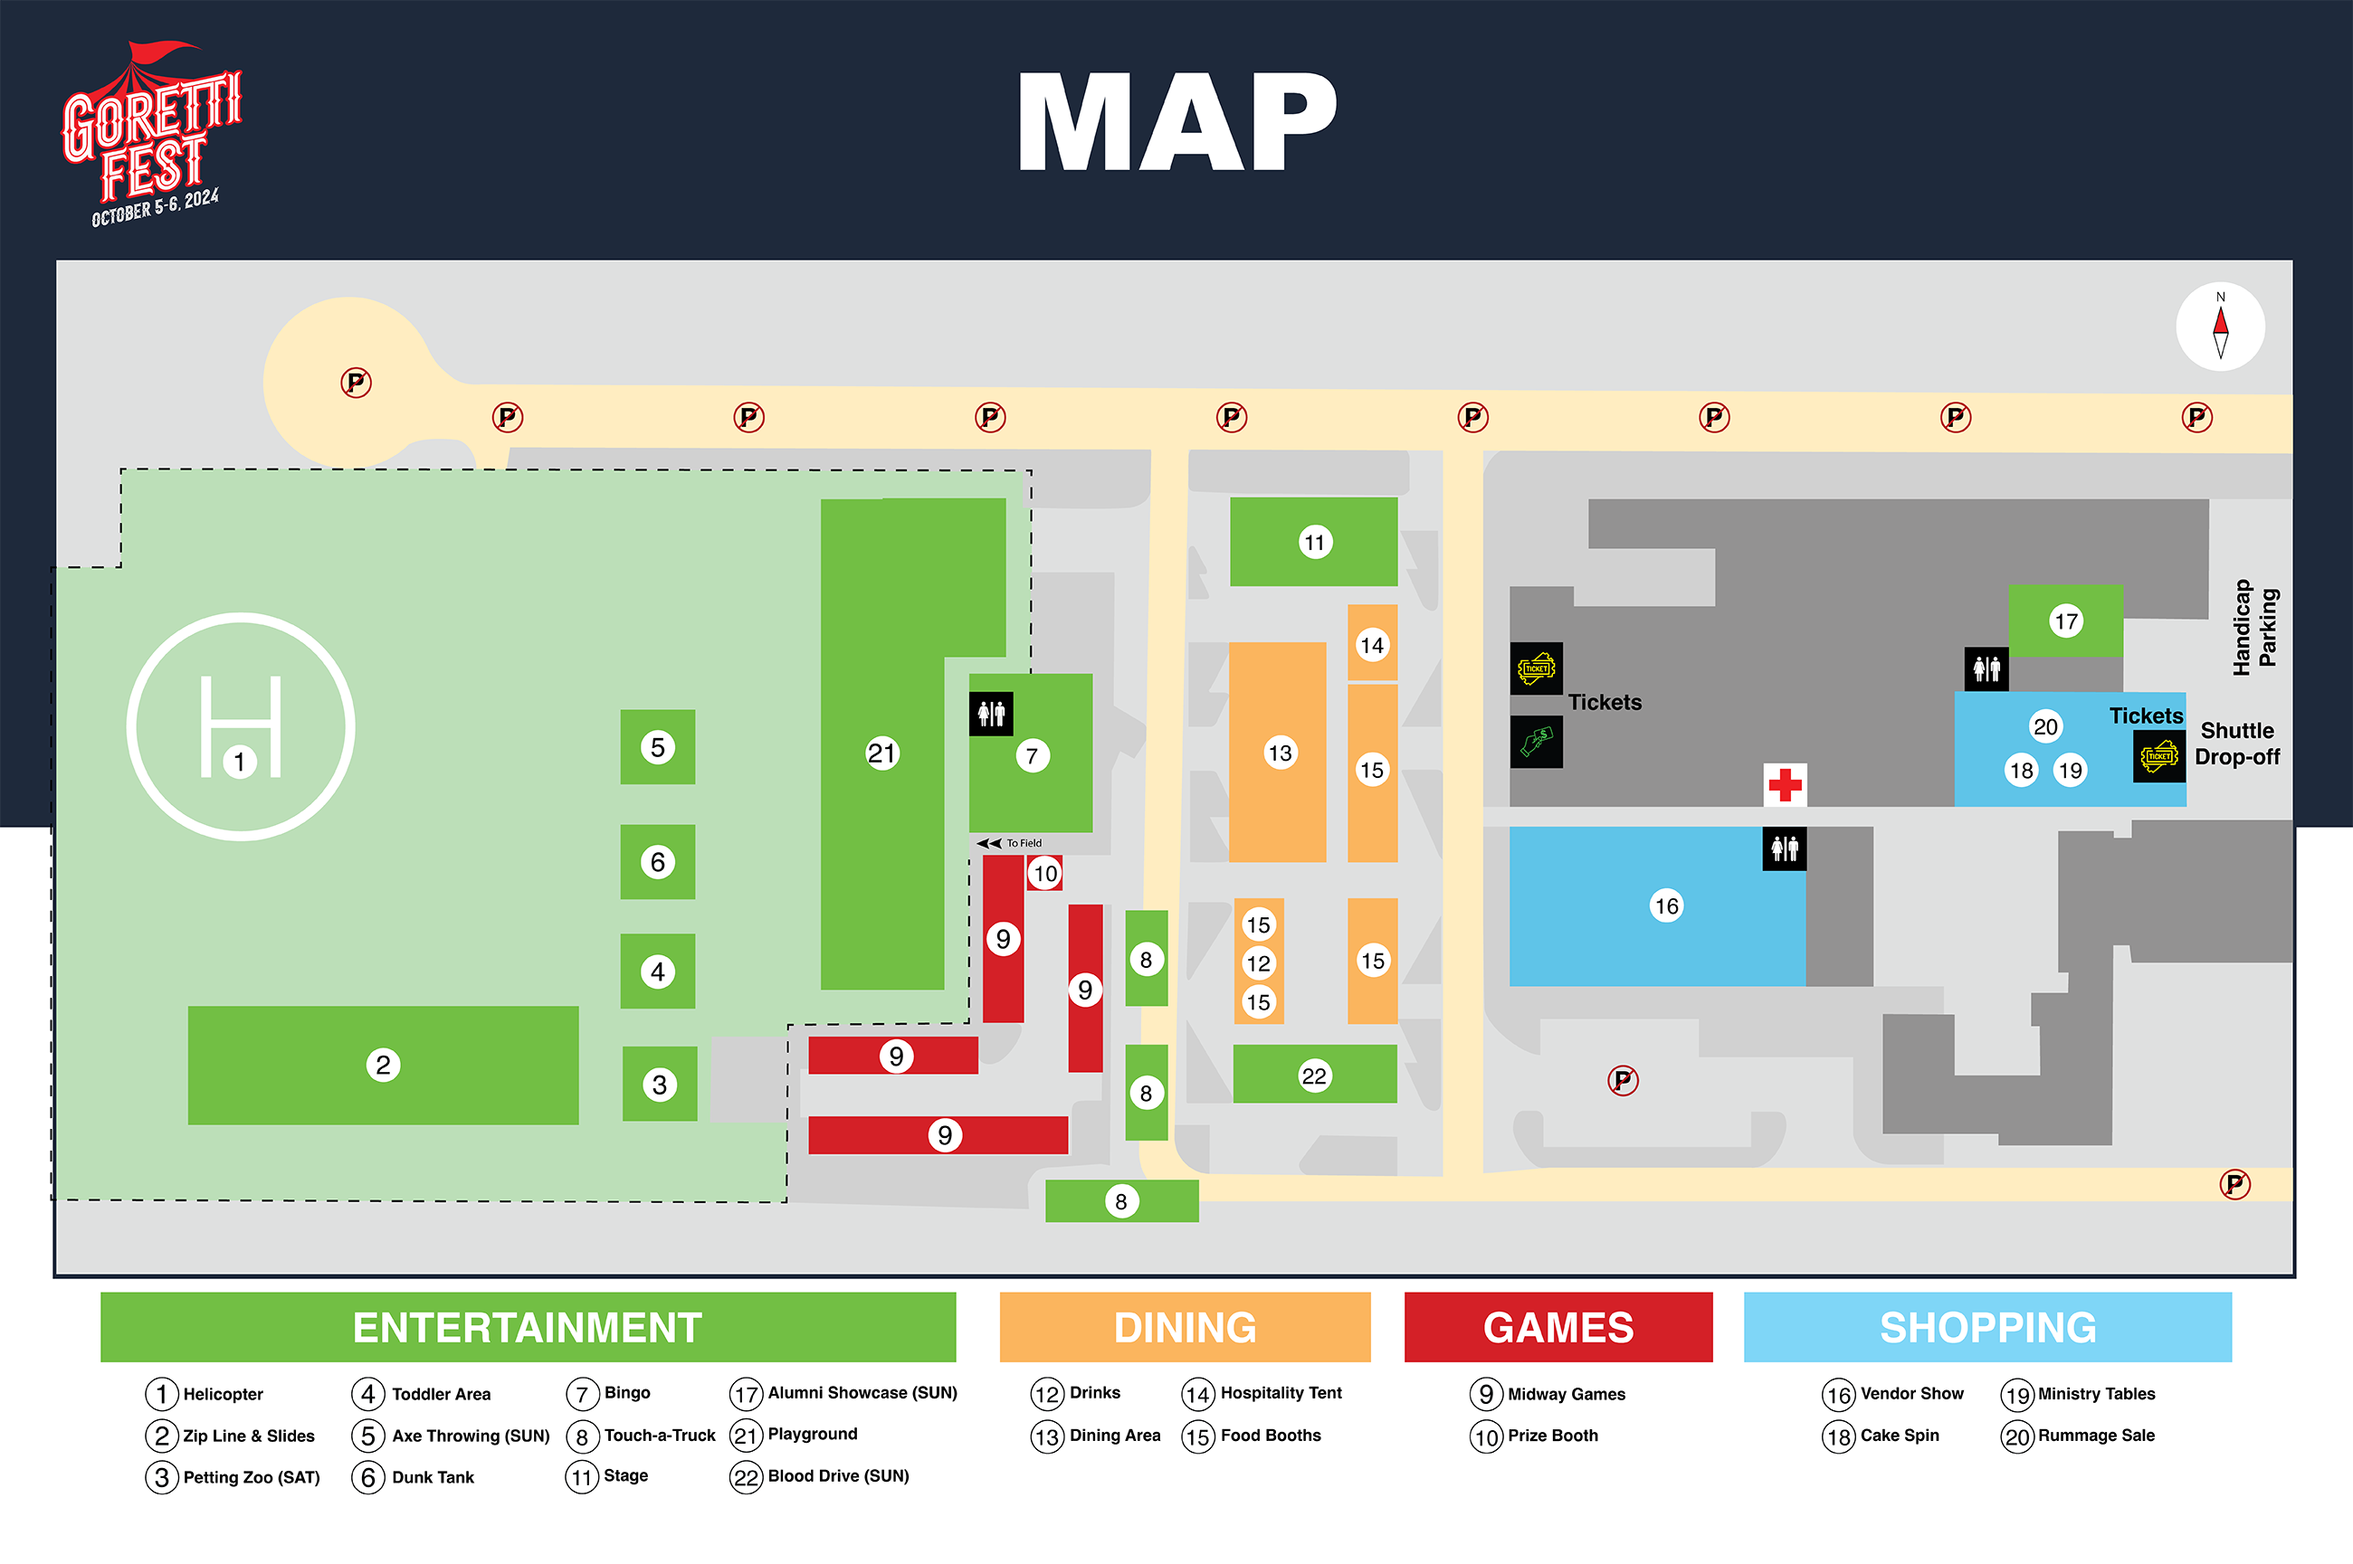
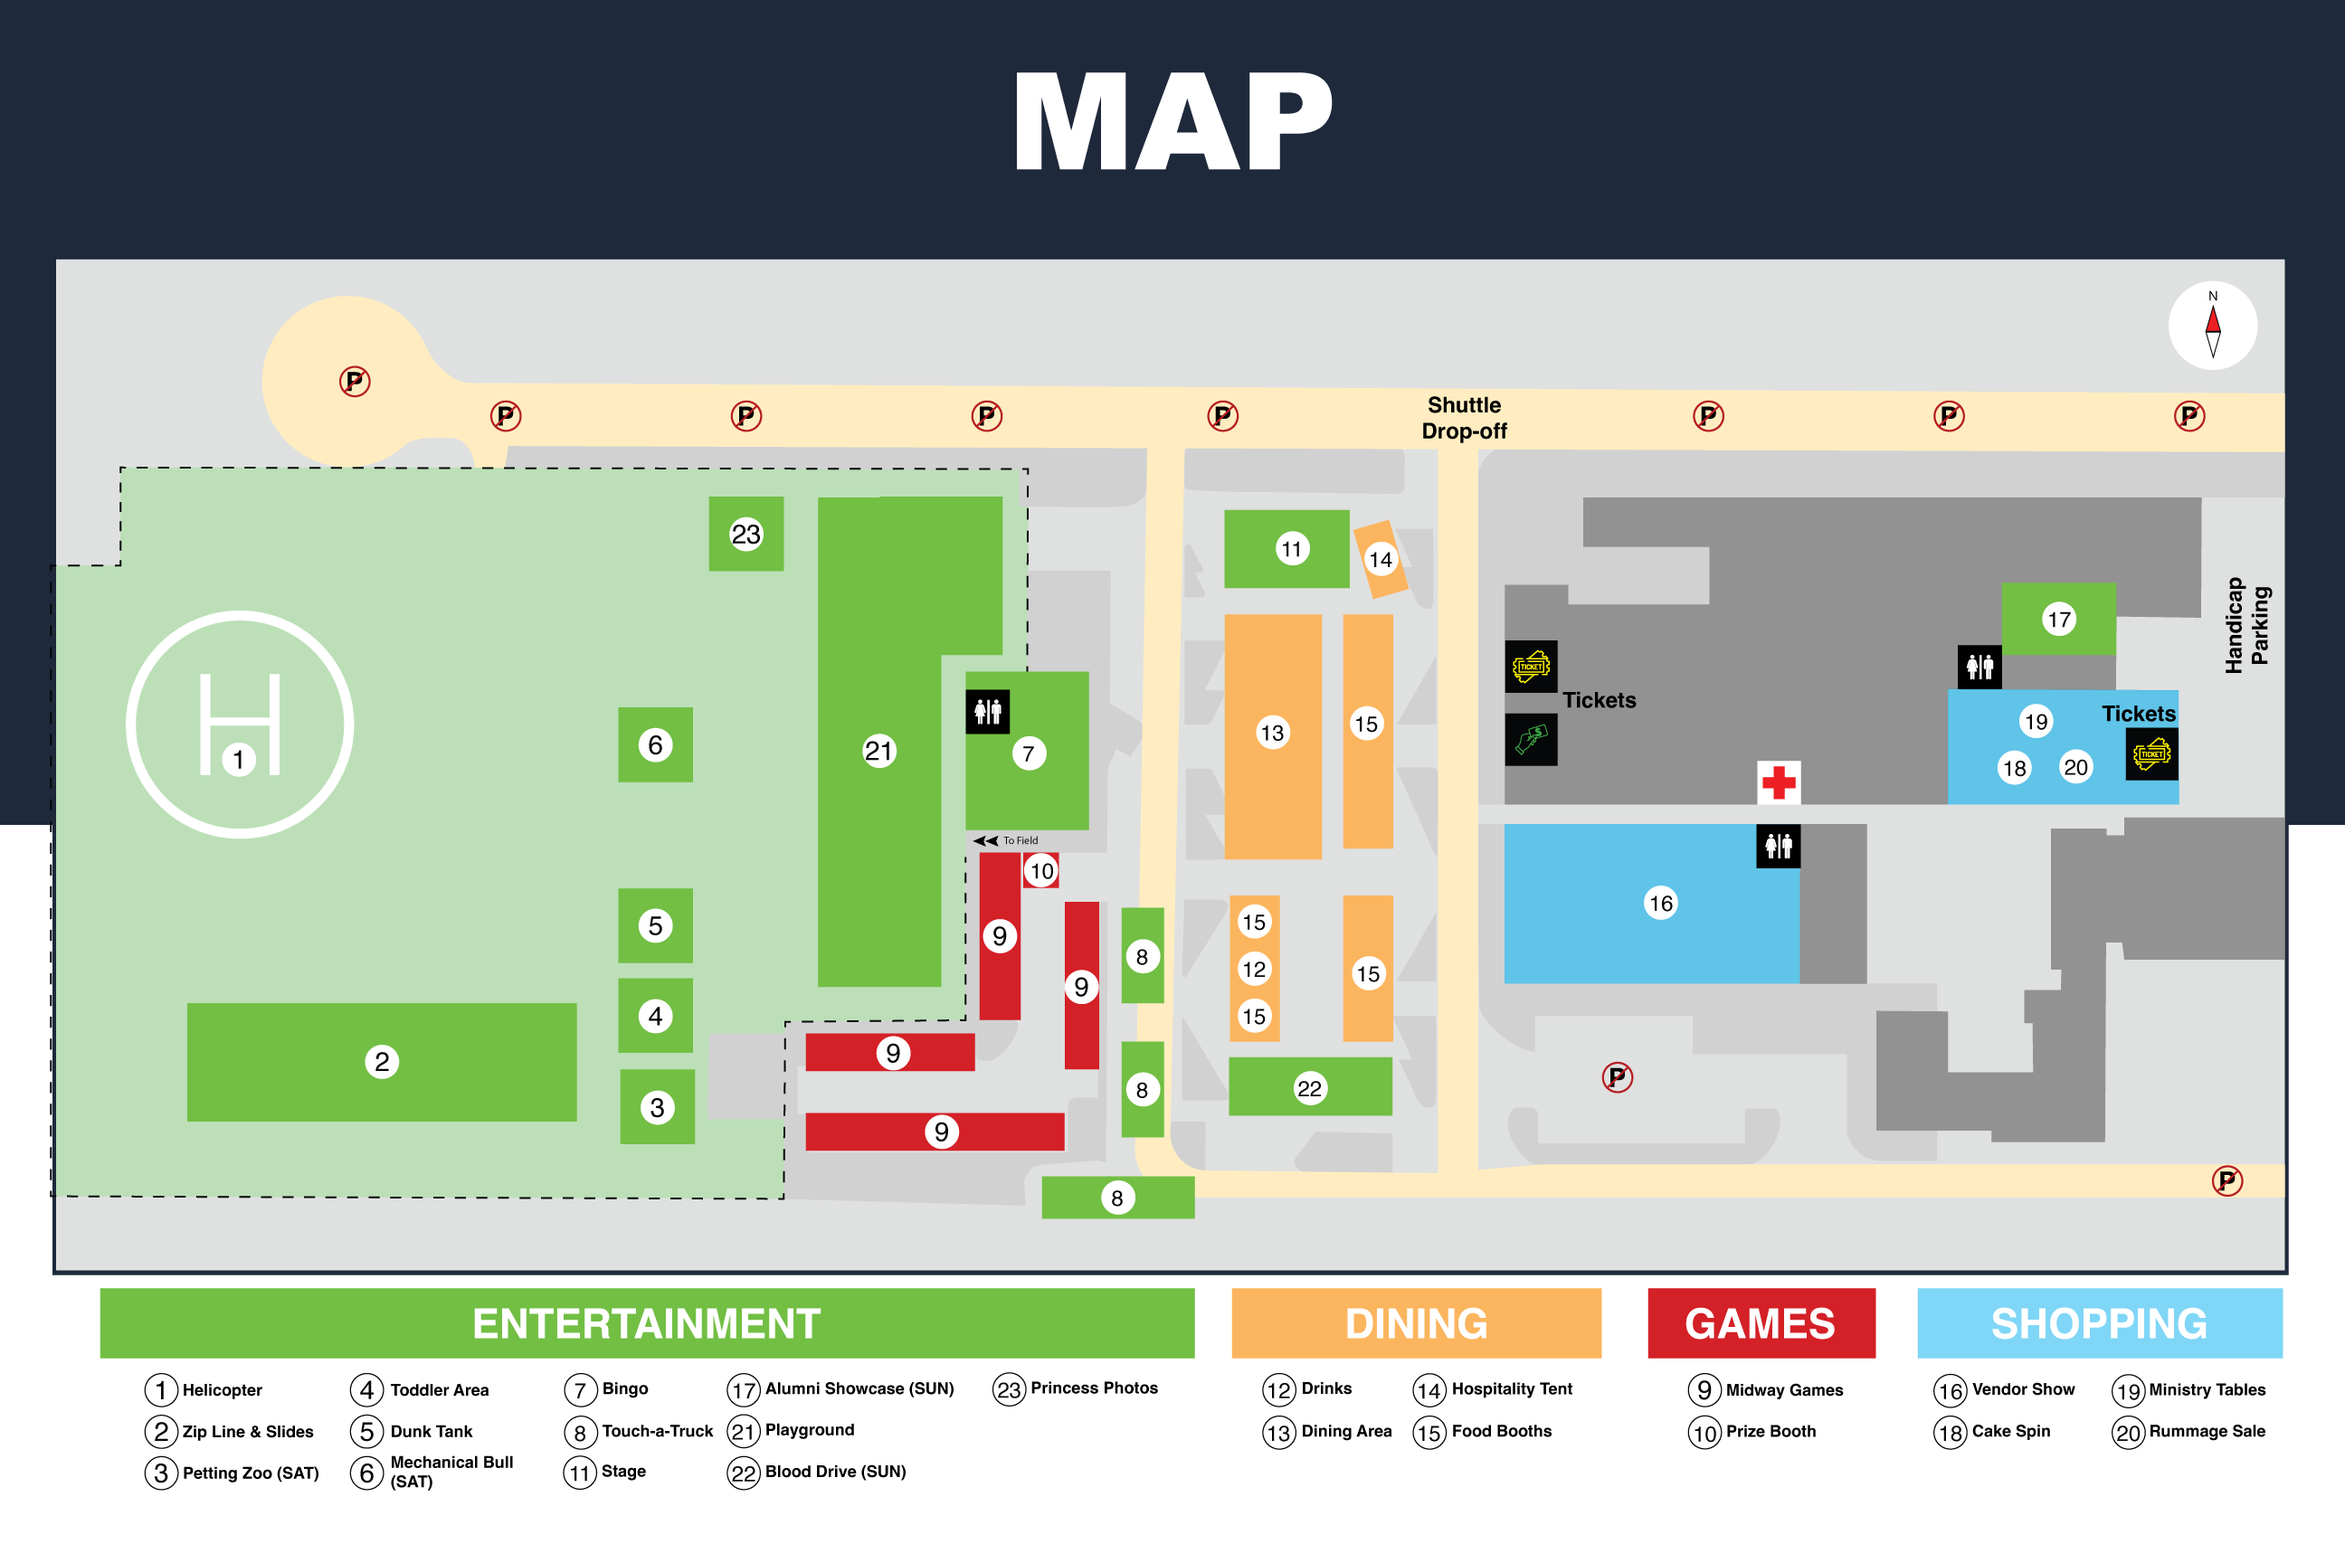
update festival map and add map page

diff --git a/app/map/page.tsx b/app/map/page.tsx
@@ -1,0 +1,71 @@
+import type { Metadata } from "next";
+import Image from "next/image";
+import Link from "next/link";
+import { Button } from "@/components/button";
+import headerImage from "@/public/img/IMG_2256.webp";
+import festivalMap from "@/public/img/GorettiFest-Map.png";
+
+export const metadata: Metadata = {
+  title: "GorettiFest Map",
+  description:
+    "Find your way around GorettiFest! Locate food booths, games, entertainment, shopping, restrooms, and ticket stations on the festival map.",
+};
+
+export default function MapPage() {
+  return (
+    <>
+      <div className="z-10 relative flex flex-row mb-4 gap-4 px-4 pt-4 md:px-0 text-center items-center justify-center">
+        <div>
+          <Link href="/">
+            <Image
+              alt="GorettiFest"
+              src="/img/gorettifest-logo-white-red-outline.svg"
+              width={180}
+              height={180}
+              priority
+              loading="eager"
+              className="block relative h-[75%] w-auto object-contain p-4 md:p-0"
+            />
+          </Link>
+        </div>
+        <div className="flex flex-col md:flex-row gap-4">
+          <Link href="/parking">
+            <Button>Find Parking</Button>
+          </Link>
+          <Link href="/map" aria-current="page">
+            <Button>GorettiFest Map</Button>
+          </Link>
+          <Link href="/schedule">
+            <Button>Schedule</Button>
+          </Link>
+        </div>
+      </div>
+      <div className="relative max-h-[90vh] md:h-[90vh]">
+        <div className="hidden md:block absolute h-full w-full overflow-hidden">
+          <Image
+            className="h-full w-full object-cover"
+            src={headerImage}
+            alt="GorettiFest volunteer preparing food"
+            priority
+            placeholder="blur"
+            sizes="100vw"
+          />
+        </div>
+        <div className="absolute top-0 left-0 h-full w-full mix-blend-multiply bg-slate-800 md:bg-slate-900/70"></div>
+        <div className="md:py-16">
+          <div className="bg-white relative md:max-w-[67vw] lg:max-w-[50vw] mx-auto md:rounded-3xl p-8 md:drop-shadow-xl">
+            <h2 className="text-balance mb-8">GorettiFest Map</h2>
+            <Image
+              src={festivalMap}
+              alt="GorettiFest grounds map showing entertainment, dining, games, shopping, restrooms, ticket stations, and the shuttle drop-off"
+              className="h-auto w-full"
+              priority
+              placeholder="blur"
+              unoptimized
+            />
+          </div>
+        </div>
+      </div>
+    </>
+  );
+}

diff --git a/components/sections/visit.tsx b/components/sections/visit.tsx
@@ -51,7 +51,7 @@ export function VisitSection() {
                 </a>
                 <br />
                 <Link
-                  href="/img/GorettiFest-Map.png"
+                  href="/map"
                   className="inline-block rounded-md bg-blue-600 px-8 py-2 text-white no-underline transition-colors hover:bg-blue-500"
                 >
                   View the GorettiFest Map

diff --git a/app/schedule/page.tsx b/app/schedule/page.tsx
@@ -342,7 +342,7 @@ export default function SchedulePage() {
           <Link href="/parking">
             <Button>Find Parking</Button>
           </Link>
-          <Link href="/img/GorettiFest-Map.png">
+          <Link href="/map">
             <Button>GorettiFest Map</Button>
           </Link>
           <Link href="/schedule">

diff --git a/app/parking/page.tsx b/app/parking/page.tsx
@@ -34,7 +34,7 @@ export default function MenuPage() {
           <Link href="/parking">
             <Button>Find Parking</Button>
           </Link>
-          <Link href="/img/GorettiFest-Map.png">
+          <Link href="/map">
             <Button>GorettiFest Map</Button>
           </Link>
           <Link href="/schedule">

diff --git a/app/page.tsx b/app/page.tsx
@@ -20,7 +20,7 @@ const HERO_VIDEO_URL =
 
 const eventDayLinks = [
   { label: "Find Parking", href: "/parking" },
-  { label: "GorettiFest Map", href: "/img/GorettiFest-Map.png" },
+  { label: "GorettiFest Map", href: "/map" },
   { label: "Schedule", href: "/schedule" },
   {
     label: "Follow the Fun on Instagram",
